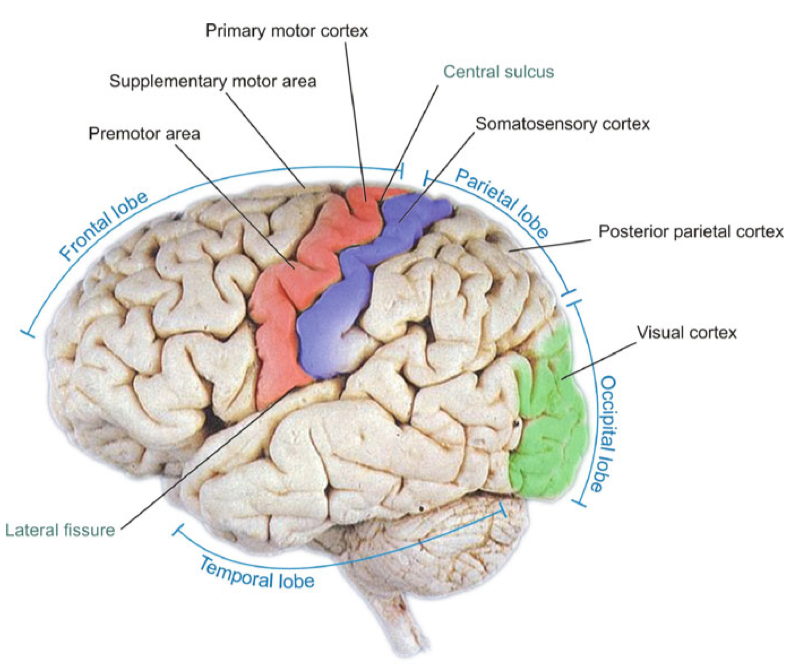
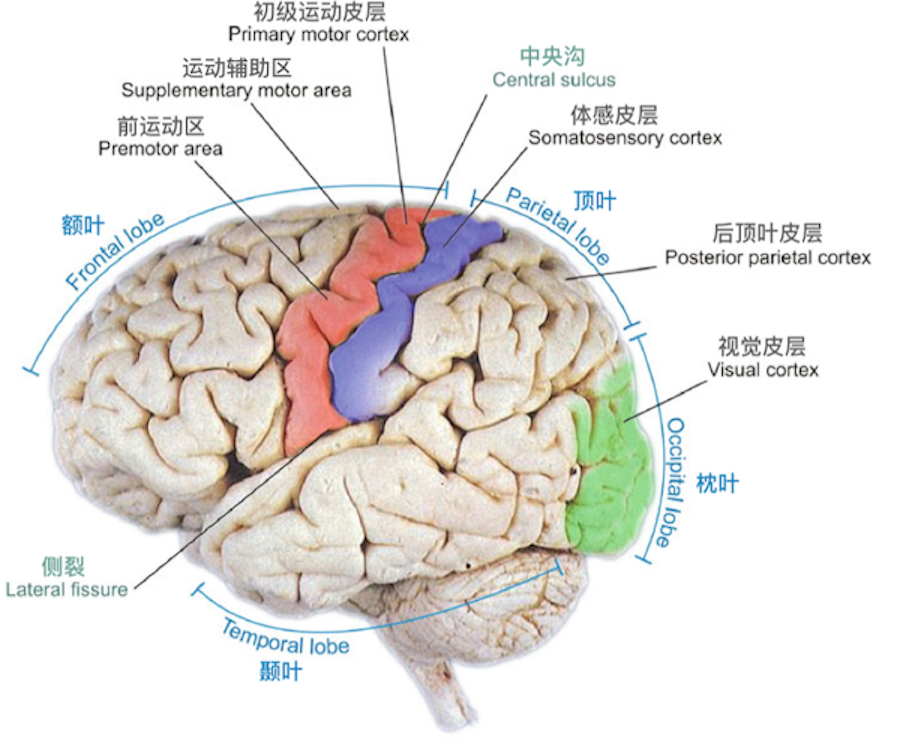
bci

diff --git a/_posts/2023-11-07-Brain-Computer-Interface-Review.md b/_posts/2023-11-07-Brain-Computer-Interface-Review.md
@@ -1,41 +1,83 @@
+---
+layout: article
+title: 脑机接口研究综述
+mathjax: True
+article_header:
+  type: overlay
+  theme: dark
+  background_color: '#203028'
+#   background_image:
+#     gradient: 'linear-gradient(0deg,rgba(0, 0, 0, .5),  rgba(255, 255, 255 , .0))'
+#     src:  /pictures/ANYmal.png
+---
+
+大脑分为四个叶：额叶、顶叶、枕叶和颞叶。中央沟将额叶与顶叶分开。它还分离中央前回（红色表示）和中央后回（蓝色表示）。颞叶和额叶被侧裂分开。枕叶位于大脑的后部。以下皮层区域对脑机接口特别重要：**运动区、体感皮层、后顶叶皮层和视觉皮层。**
+
 ![](/pictures/BCI/大脑皮层.png)
-大脑分为四个叶：额叶、顶叶、枕叶和颞叶。中央沟将额叶与顶叶分开。它还分离中央前回（红色表示）和中央后回（蓝色表示）。颞叶和额叶被侧裂分开。枕叶位于大脑的后部。以下皮层区域对脑机接口特别重要：运动区、体感皮层、后顶叶皮层和视觉皮层。
 
 
+
+<!--more-->
 
 ## 脑-机接口分类
 
-- 皮层脑电(electrocorticography, ECoG)
-- 局部场电位(local field potential, LFP)
-- 功能近红外光谱（functional near-infrared spectroscopy, fNIRS）
-- 功能磁共振成像(functional magnetic resonance imaging, fMRI)
-- 脑电图(electroencephalograph, EEG)
+理论上，脑机接口可能会使用通过多种方法记录的大脑信号。这些包括： 
+- **电场或磁场的记录**
+- **功能近红外光谱（functional near-infrared spectroscopy, fNIRS）**
+- **正电子发射断层扫描 (positron emission tomography, PET)**
+- **功能磁共振成像 (functional magnetic resonance imaging, fMRI)**
+
+然而实际上，这些方法中的大多数目前由于其复杂的技术要求、高昂的费用、有限的实时能力和/或开发的早期阶段而不适用于临床。只有**电场记录（可能还有 fNIR）**可能在不久的将来对临床应用具有重要的实用价值。
+
+电场记录测量中枢神经系统突触、神经元和轴突在接收和传递信息时膜电位的变化。神经元接收并整合突触输入，然后以动作电位的形式将结果传递到轴突。突触电位和动作电位反映了离子在神经元膜上流动的变化。这种活动产生的**电场记录**为
+- 由头皮上的电极记录头皮电压变化：**脑电图 (electroencephalograph, EEG)** 
+- 由皮层表面的电极记录皮层表面电压变化：**皮层脑电 (electrocorticography, ECoG)** 
+-由插入皮层的电极阵列记录大脑内电压变化：**局部场电位 (local field potential, LFP)** 和 **神经元动作电位（spikes）** 
 
 ![](/pictures/BCI/检测大脑电活动的三种不同方法：EEG、ECoG和皮质内记录.png)
 
+这三种可供选择的记录方法如图所示。用这些记录方法可以检测到的任何电压变化都可能构成对脑机接口有用的大脑信号特征。皮质内电极可以检测单个神经元尖峰频率的调节；LFP、ECoG或EEG记录可以检测事件相关电位（ERPs）。
+
+
 ## EEG 脑-机接口
 
-### 基于感觉运动节律的脑-机接口
+脑机接口通常无法读取大脑或破译思想。**脑机接口只能检测和分类与特定任务或事件相关的正在进行的大脑信号中的特定活动模式(Brain Patterns)**。脑机接口的用户必须做**心理策略(Mental Strategies)**指定的事情才能产生这些模式。最常见的心理策略是**选择性注意(Selective Attention, 常用 SSVEP 和 P300)**和**运动想象(Motor Imagery)**。选择性注意力的脑机接口方法在不同的用户和使用场景中非常可靠，并可以相当快速的通信，且用户可以在没有任何培训的情况下产生 P300 和 SSVEP。几乎所有的受试者都可以在几分钟内学会专注于目标字母或符号的简单任务。**与基于选择性注意的脑机接口相比，基于 MI 的脑机接口不依赖于外部刺激。**然而， MI 是一项必须学习的技能。基于 MI 的脑机接口通常在第一次治疗期间效果不佳。相反，与选择性注意的脑机接口不同，一些培训是必要的。
 
-当事件发生时，脑电信号中与特定神经活动相关的部分频带能量发生衰减的现象被称为事件相关同步(event-related synchronization，ERS)/去同步(event-related desynchronization，ERD)。用户想象某侧肢体运动时，其对侧感觉运皮层的脑电在 mu 节律（频带在 8-13 Hz）和 beta 节律（频带在 18-26 Hz）能量上会出现 ERD 现象。
+### 基于 SMR 的脑-机接口
+
+移动肢体甚至收缩一块肌肉都会改变大脑皮层的活动。事实上，已经对运动的准备或对运动的想象也改变了所谓的**感觉运动节律（Sensorimotor rhythms,SMR）**。感觉运动节律是指从**体感和运动区域**记录的大脑活动的振荡。大脑活动振荡通常根据特定的频带进行分类，这些频带以希腊字母命名（$\delta$：＜4 Hz，$\theta$：4–7 Hz，$\alpha$：8–12 Hz，$\beta$：12–30 Hz，$\gamma$：＞30 Hz）。**从感觉运动区域记录的 $\alpha$ 活动也被称为 $\mu$ 活动**。脑电信号中与特定神经活动相关的特定频带内振荡活动的减少称为**事件相关去同步(event-related desynchronization，ERD)**。相应地，在特定频带中振荡活动的增加被称为**事件相关同步(event-related synchronization，ERS)**。ERD/ERS模式可以由 MI 自发地产生，MI 是对运动的想象，而不是实际执行运动。**对 MI 最重要的频带是 EEG 信号中的 $\mu$ 和 $\beta$** 活动。侵入性脑机接口通常也使用 $\gamma$ 活动，而安装在头部外部的电极很难检测到 $\gamma$ 活动。**用户想象某侧肢体运动时，其对侧感觉运皮层的 EEG 在 $\mu$ 节律和 $\beta$ 节律能量上会出现 ERD 现象**。
+
+从结构上看，ERD/ERS 的模式遵循人类组织结构。右手 MI 产生的活动在电极位置 C3 上最为突出。左手 MI 产生的活动在 C4 中最为突出。也就是说，手部 MI 所调用的活动位于对侧。足部 MI 调用 Cz 上的活动。在脑电图中无法区分左脚和右脚的运动，因为相应的皮层区域太近了。类似地，在 EEG 中不能区分单个手指的 ERD/ERS 模式。为了产生可以检测的模式，所涉及的皮层区域必须足够大，以便与剩余的脑电图（背景脑电图）相比，所产生的活动足够突出。手部区域、脚部区域和舌头区域相对较大，并且结构不同。因此，MI 脑机接口是通过想象移动左手、右手、脚和舌头来控制的。
+
+![](/pictures/BCI/国际10-20系统.png)
+
+Fig. 国际10–20系统：头部左侧视图和俯视图。Nasion 是额骨和鼻骨在鼻梁处的交叉点。Inion 是头骨后部颈部上方的一个小凸起
+
+另一种类型的 MI 脑机接口依赖于更抽象、针对特定主题的运动类型。通过脑机接口的多次训练过程，人们可以学习和制定自己的 MI 策略。虽然不同受试者的表现和训练时间有所不同，但大多数受试者可以通过 1-4 小时的训练在两个选择的任务中获得良好的控制。然而，通常需要更长时间的训练才能实现足够的控制。因此，培训是许多 BCI 的重要组成部分。用户通过称为**操作性条件反射(operant conditioning)**的过程进行学习，这是心理学中的一个基本术语。在操作性条件反射中，人们学会将某种行为与反应或效果联系起来。例如，人们知道触摸热炉子很痛苦，并且再也不会这样做。在 BCI 中，想要向上移动光标的用户可能会发现，在心理上想象某个运动任务（例如握紧拳头）的效果不如思考此类运动的动觉体验有效。 BCI 学习是操作性条件反射的一个特例，原因是用户没有执行经典意义上的动作，因为他/她没有移动。尽管如此，如果想象的行为产生效果，那么条件反射仍然会发生。在 BCI 使用过程中，**操作条件反射涉及通常在计算机屏幕上显示的反馈进行训练**。正反馈表明大脑信号以所需的方式进行调节。当用户无法执行所需的任务时，会给出负面反馈或不给出反馈。 BCI 学习是一种称为**神经反馈(neurofeedback)**的反馈。反馈表明用户是否通过 BCI 很好地执行了心理任务或未能实现预期目标。用户可以利用此反馈来优化他们的心理任务并提高 BCI 性能。反馈可以是触觉的或听觉的，但最常见的是视觉的。例如，在光标移动任务中，人们了解哪种类型的想象移动最适合 BCI 控制，并可靠地向上或向下移动光标。通过进一步训练，一些受试者可以学会在两个甚至三个维度上移动光标。
 
 ### 基于 P300 信号的脑-机接口
 
-P300 响应是一种与决策认知过程相关的**事件诱发电位(event-related potential, ERP)**，是一种大脑对新奇刺激的特异性响应成分。**在新奇刺激呈现后约 300ms，大脑中央区及顶区的电极可以采集到一个特异性的正成分， 这种正成分就被称为 P300 成分** 。快速连续视觉呈现（rapid serial visual presentation, RSVP）是一类基于 P300 信号的实验范式。P300 成分可以通过视觉、听觉等诱发， 其中视觉诱发 P300 在脑-机接口领域应用最为广泛。经典 P300 脑-机接口 中，目标字符排列为二维矩形阵列，并且每行和列按照一定次序依次闪烁，如所图 1-4 示。**用户需要注视其中某一目标，当该目标闪烁时，用户的脑电信号中便会诱发出 P300 成分**。通过检测 P300 成分出现时间，即可判断出用户关注的目标。
+P300 响应是一种与决策认知过程相关的**事件诱发电位(event-related potential, ERP)**，是一种大脑对新奇刺激的特异性响应成分。
+
+在周期性常规刺激中穿插一个无规律的，期望的、或显著的听觉、视觉或体感（触摸）的新奇刺激，**在新奇刺激呈现后约 300ms，大脑中央区及顶区的电极可以采集到一个特异性的正成分， 这种正成分就被称为 P300 成分** 。虽然P300的潜在神经发生器存在争议，但人们认为，该信号反映了对正在进行的活动的快速神经抑制，这种抑制促进了刺激/任务信息从额叶皮层到颞顶叶皮层的传递。在基于P300的脑机接口系统中，向用户呈现一系列听觉、视觉或体感刺激，每个刺激代表特定的输出（例如，拼写特定的字母），并关注代表他/他想要的动作的刺激。由于P300脑机接口只需要用户调节注意力，而不是任何肌肉输出，因此它是一种**独立的脑机接口**。
+
+![](/pictures/BCI/可用于脑机接口系统的大脑信号示例.png)
+
+Fig. 可用于脑机接口系统的大脑信号示例。(a)：在中央顶叶皮层上的EEG中，在刺激开始后约300ms（即 P300 ERP），穿插在无关刺激之间的相关刺激引起正峰值。脑机接口检测 P300 并执行与参与刺激相关的命令。(b)：用户控制通过感觉运动皮层记录的脑电图中 8-12 Hz $\mu$ 节律（或 18-26 Hz $\beta$ 节律）的振幅，将光标移动到屏幕顶部的目标或底部的目标（或中间位置的其他目标）。顶部和底部目标的频谱（顶部）和样本脑电图轨迹（底部）表明，该用户的控制集中在 $\mu$ 节律频带中。用户还可以学习控制二维或三维的运动。(c)：与向右移动相比，向左移动操纵杆期间，ECoG信号中的高频 γ 振荡（>30 Hz）增加。ECoG记录的 γ 振荡可能对未来脑机接口系统中的光标控制有用。 (d)：四肢瘫痪的脑机接口用户以向左或向左移动计算机光标的首选方向减少或增加单个神经元的放电。光栅图显示了单个试验的单个神经元活动，直方图是20个试验的总和。实际光标轨迹是根据具有不同优选方向的许多神经元的发射率计算的。
+
+**快速连续视觉呈现（rapid serial visual presentation, RSVP）**是一类基于 P300 信号的实验范式。P300 成分可以通过视觉、听觉等诱发， 其中视觉诱发 P300 在脑-机接口领域应用最为广泛。经典 P300 脑-机接口 中，目标字符排列为二维矩形阵列，并且每行和列按照一定次序依次闪烁，如所图 1-4 示。**用户需要注视其中某一目标，当该目标闪烁时，用户的脑电信号中便会诱发出 P300 成分**。通过检测 P300 成分出现时间，即可判断出用户关注的目标。
 
 ![](/pictures/BCI/典型基于%20P300%20信号的脑-机接口系统的信号特征及系统界面.png)
 
+
 ### 基于 SSVEP 的脑-机接口
 
-大脑视皮层对视觉刺激产生的响应被称为**视觉诱发电位(visual evoked potential, VEP)**，这些响应信号通过颅骨传导到头皮表面，并且在传导过程中相互混叠，从而形成**稳态视觉诱发电位(steady-state visual evoked potential，SSVEP)**。图形变化都可能会诱发 VEP，例如闪光刺激，图形翻转，光栅变化等。EEG 记录数据中，视觉诱发电位通常在视觉皮层响应最为强烈，因此采集视觉诱发电位信号时通常需要包括枕叶区。
+大脑视皮层对视觉刺激产生的响应被称为**视觉诱发电位(visual evoked potential, VEP)**，这些响应信号通过颅骨传导到头皮表面，并且在传导过程中相互混叠，从而形成**稳态视觉诱发电位(steady-state visual evoked potential，SSVEP)**。图形变化都可能会诱发 VEP，例如闪光刺激，图形翻转，光栅变化等。EEG 记录数据中，VEP 通常在视觉皮层响应最为强烈，因此采集 VEP 时通常需要包括枕叶区。
 
 ![](/pictures/BCI/视觉感知觉通路.PNG)
 
-VEP 与视觉刺激的空间和时间特性密切相关。当视觉刺激出现在**中央视野区**，通常会比刺激出现在外周视野区引起幅度更加显著的视觉诱发电位，同时，视觉诱发电位也与视觉刺激出现的时刻具有较强的相关性，反映在信号特征上即为**锁时、锁相特点**。 
+VEP 与视觉刺激的空间和时间特性密切相关。当视觉刺激出现在**中央视野区**，通常会比刺激出现在外周视野区引起幅度更加显著的 VEP，同时，VEP 也与视觉刺激出现的时刻具有较强的相关性，反映在信号特征上即为**锁时、锁相特点**。 SSVEP 是一类特殊的视觉诱发电位。它**由具有固定频率的视觉刺激所诱发**，当视觉刺激以特定频率进行周期性呈现时（如闪烁、图形翻转、图形放缩等），视觉系统会受其影响产生出具有稳定频率特征的诱发响应。**这种诱发响应通常包含与刺激频率相同的频率成份及其高次谐波成份**。
 
-
-
-SSVEP 是一类特殊的视觉诱发电位。它**由具有固定频率的视觉刺激所诱发**，当视觉刺激以特定频率进行周期性呈现时（如闪烁、图形翻转、图形放缩等），视觉系统会受其影响产生出具有稳定频率特征的诱发响应。**这种诱发响应通常包含与刺激频率相同的频率成份及其高次谐波成份**。
 ![](/pictures/BCI/典型%20SSVEP%20响应信号波形及频谱.PNG)
 
 **锁时、锁相、延迟特性**
